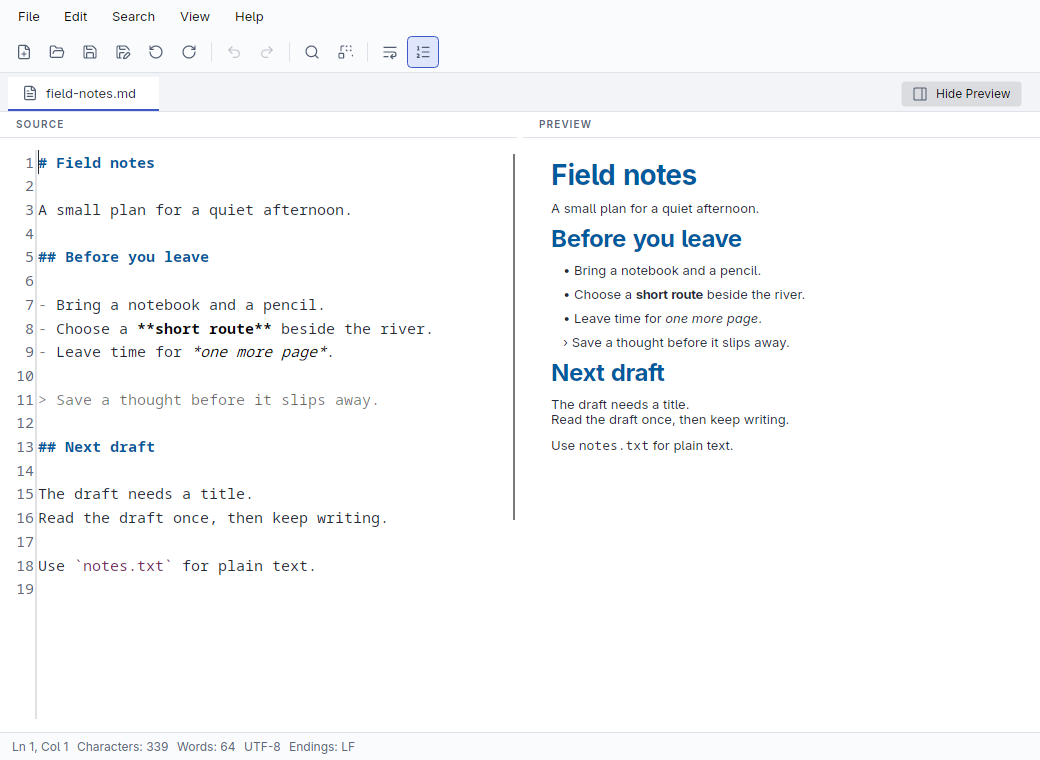
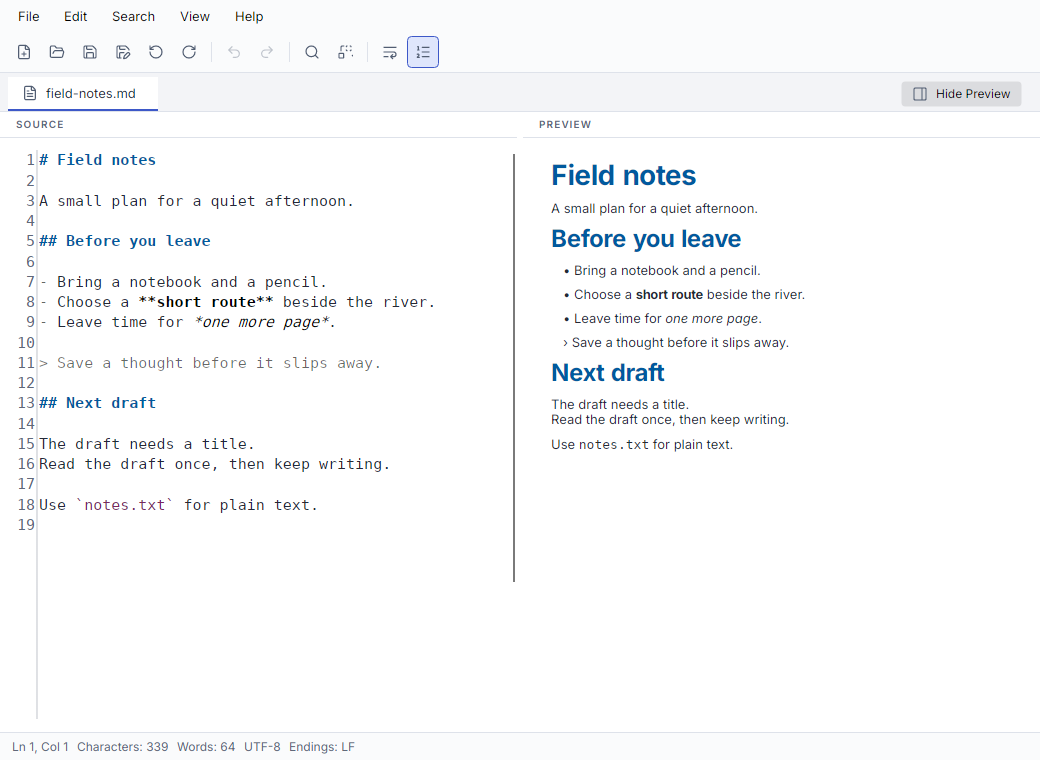
docs(release): use 1.0.0 candidate screenshots (#142)
* docs(release): use 1.0.0 candidate screenshots

Capture markdown.png and search.png from the linux-x64 AppImage of
Package candidates run 40674101568 on dev 953fa9b. Record the build
run, artifact and AppImage hash in capture.json.

Refs #106

* docs(release): state how candidate images become evidence

diff --git a/docs/product-documentation.md b/docs/product-documentation.md
@@ -28,10 +28,13 @@ The [native user-guide record](user-guide-verification.md) documents a Linux can
 
 ## Capture real application images
 
-The committed images show the Linux development build after the interface redesign.
-They are not final release-candidate evidence.
+The committed images show the 1.0.0 Linux AppImage from a Package candidates run on `dev`.
 [Capture metadata](user/media/capture.json) records the source commit, source diff hash,
 executable and assembly hashes, host, sample hash, dimensions, and image hashes.
+It also records the build run, the artifact name, and the AppImage hash.
+The AppImage has one single-file executable, so the executable hash and the assembly hash are the same.
+The images are not release-candidate evidence. Compare them with the draft release before you use them as evidence.
+If the interface changes before the draft release, capture the images again from the draft release candidate.
 The capture uses only [the synthetic sample](user/samples/field-notes.md).
 No personal document, user profile, or local file path appears in the images.
 
